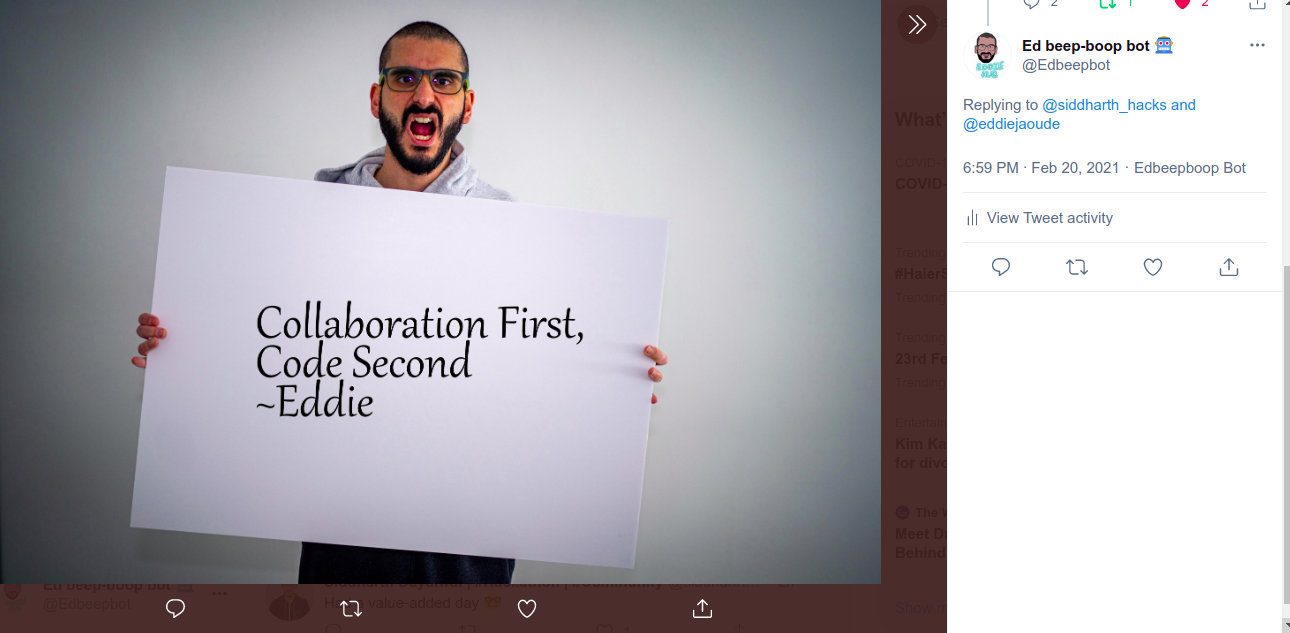
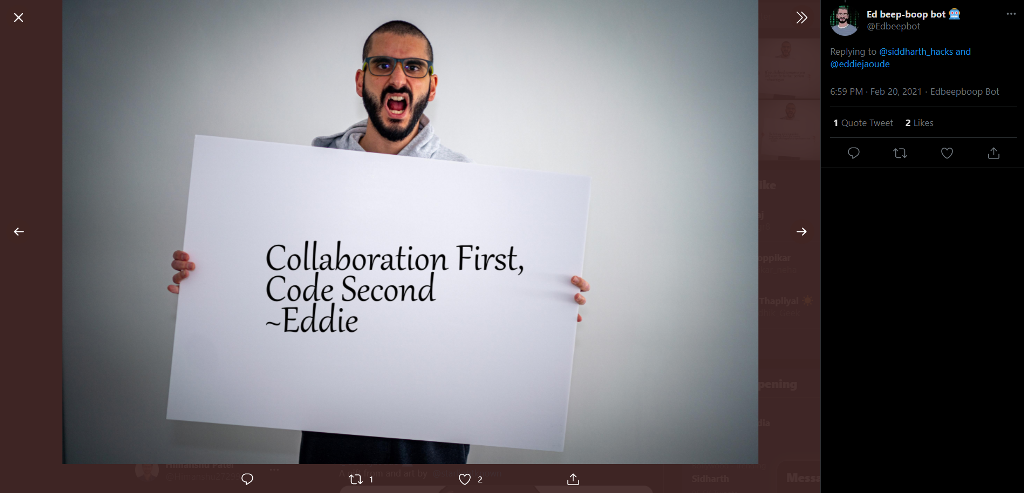
Updated README.md's screenshot fixing #11, and some minor changes in README.md

diff --git a/README.md b/README.md
@@ -3,10 +3,10 @@
 [![All Contributors](https://img.shields.io/badge/all_contributors-3-orange.svg?style=flat-square)](#contributors-)
 <!-- ALL-CONTRIBUTORS-BADGE:END -->
 # Please do read [CONTRIBUTING.md](https://github.com/kcoder63/Edbeepbot/blob/main/CONTRIBUTING.md) if you want to contribute to this project
-## @Edbeepbot on twitter
+## @Edbeepbot on Twitter
 <img src="twitter.png">
 <a href="https://twitter.com/Edbeepbot" target="_blank"><img src="https://cdn2.iconfinder.com/data/icons/social-media-2199/64/social_media_isometric_6-twitter-512.png" height="120px" width="120px" alt="Twitter" align="center"></a>
-<a href="https://github.com/kcoder63/"><img src="http://ForTheBadge.com/images/badges/built-with-love.svg" alt="built with Love"></a><br>
+<a href="https://github.com/kcoder63/"><img src="http://ForTheBadge.com/images/badges/built-with-love.svg" alt="Built with Love"></a><br>
 
 ## Twitter Reply-Retweet Bot using Python & Tweepy
 A Python-built Twitter retweet bot using Tweepy. Searches and retweets based on hashtag or keyword. Can do multiple keywords, or hashtags.
@@ -28,12 +28,12 @@ Instructions
 `mkdir edbeepbot`
 
 * Create a new [Twitter Application](https://apps.twitter.com/app/new). This is where you'll generate your keys, tokens, and secrets.
-* Fill in your keys, tokens, and secrets in keys.py
+* Fill in your keys, tokens, and secrets in `keys.py`
 * The example demonstrates a single hashtag value, but you can tweak the code to search multiple hashtags. Example:
 
- `Search = "BOT"` This will search bot in tweets and retweet and reply to it. You can use words,images and quotes of your choice.
- You can add your collection of Eddie Quotes to quotes.py.
-* Run your main.py script. Enjoy! 
+ `Search = "BOT"` This will search bot in tweets and retweet and reply to it. You can use words, images and quotes of your choice.
+ You can add your collection of Eddie Quotes to `quotes.py`.
+* Run your `main.py` script. Enjoy! 
 
 `python3 main.py`
 
